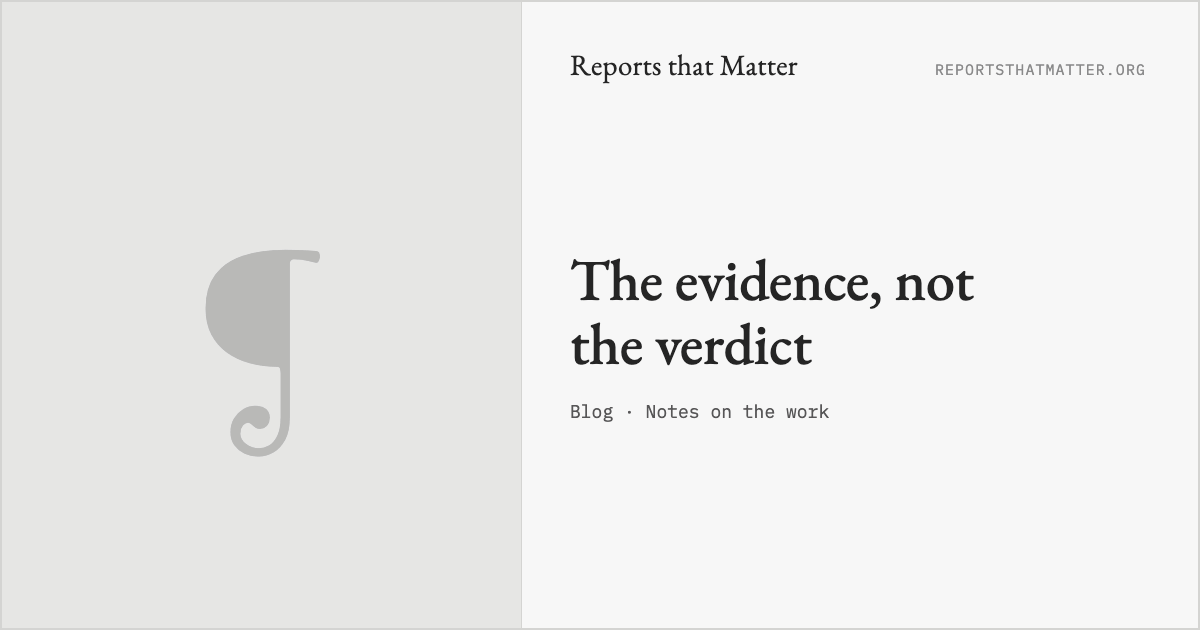
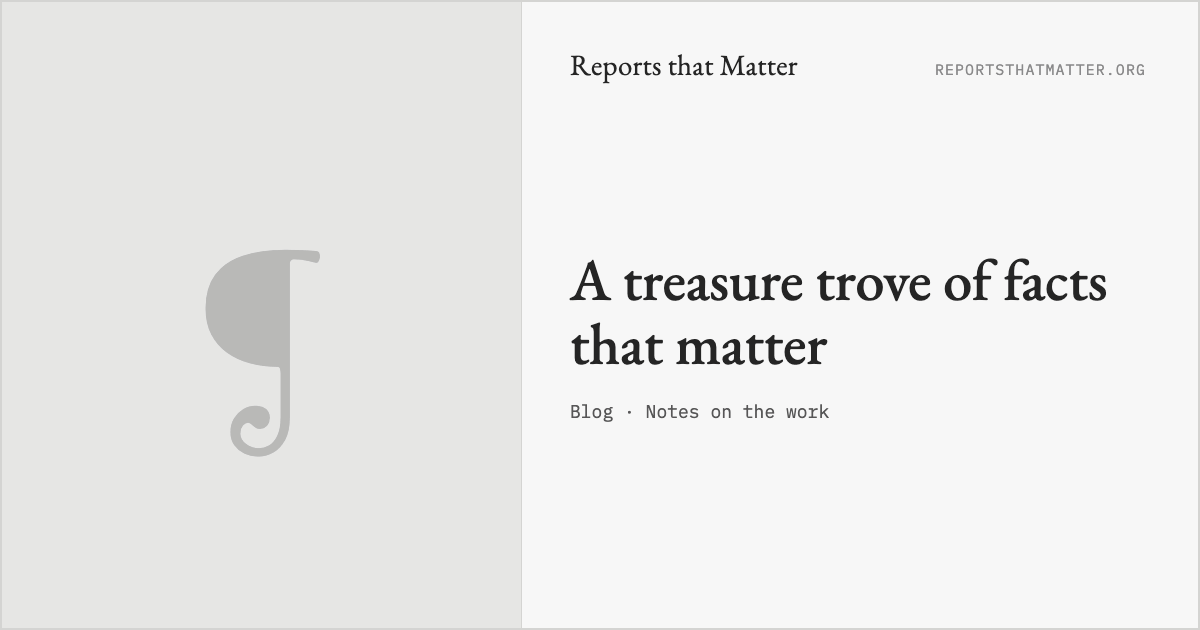
Manifesto retitled: A treasure trove of facts that matter: why I built Reports that Matter (Rufus, 21 Nov)
Claude-Session: https://claude.ai/code/session_01KA2bCtYGfbSuvqHx1NiNat

Changed region(s): [[0.4625, 0.3921, 0.925, 0.4825], [0.4933, 0.5127, 0.7092, 0.6032]]

diff --git a/src/templates/about.ts b/src/templates/about.ts
@@ -27,7 +27,7 @@ export function renderAbout(): string {
 
     <p>The report's own words, as published. Our introductions and highlights are labelled as ours.</p>
 
-    <p>Why this exists: <a href="/blog/why-reports-that-matter">The evidence, not the verdict</a>.</p>
+    <p>Why this exists: <a href="/blog/why-reports-that-matter">A treasure trove of facts that matter: why I built Reports that Matter</a>.</p>
   </div>
 
   <section class="section wrap">

diff --git a/content/posts/reports-that-matter-is-online.md b/content/posts/reports-that-matter-is-online.md
@@ -5,7 +5,7 @@ author: "Rufus Pollock"
 summary: "The official reports on 9/11, the financial crisis, the tobacco companies, Columbia, Chilcot, Grenfell, the Post Office and more, rebuilt from their PDFs as web pages, with every paragraph linkable and the official document one click away."
 status: draft
 review:
-  - "The announce post for the social launch of Tue 24 Nov 2026 (marketing one-pager of 24 Nov). It sits beside the essay 'The evidence, not the verdict' (why-reports-that-matter.md), which is the voice and the story; this is the plain version. No quote from Rufus, by his choice; his bio is one clause in the FAQ."
+  - "The announce post for the social launch of Tue 24 Nov 2026 (marketing one-pager of 24 Nov). It sits beside the essay 'A treasure trove of facts that matter: why I built Reports that Matter' (why-reports-that-matter.md), which is the voice and the story; this is the plain version. No quote from Rufus, by his choice; his bio is one clause in the FAQ."
   - "Tension with brand-voice.md: the site has been live since 27 Oct 2026 and the org Bluesky has posted daily since 24 Oct, so the post never says 'opens today' or 'launch'. 'Is online' is the headline verb. If a date is wanted, the honest one is that this is the first announcement, not the first day online."
   - "The three passages and their pages are the essay's (Philip Morris p. 1537, Columbia p. 157, Senate PSI p. 297), verified against the site's text on 21 Nov; '?p=' ids checked by marketing/scripts/check-drafts.py. The why-it-matters lines are ours, cut shorter than the essay's after a critique (21 Nov) found them verdict-adjacent in the plain register. The same critique replaced 9/11 p. 21 (NEADS unexplained; reads cold between a tobacco memo and a bankers' joke) with Columbia p. 157. Columbia is an affected-community report: no toll, no crew named; the context is the report's name, year and the loss of the vehicle, as in the essay."
   - "Counts: 24 reports and 64,618 paragraphs are from /reports and /data on 21 Nov 2026. If a report ships before publication, update both (check-drafts.py fails a stale report count)."
@@ -14,7 +14,7 @@ review:
 
 Public inquiries hold the most detailed record we have of what actually happened, and almost nobody reads past the summary. Reports that Matter puts 24 of the big ones online as web pages you can read, search and link to, in the report's own words: the 9/11 Commission, the Senate's financial-crisis report, *United States v. Philip Morris*, Columbia, Chilcot, Leveson, Grenfell, the Post Office Horizon Inquiry and the Covid Inquiry among them, from the UK and the US, 1986 to 2026. Every paragraph has its own link and its page number, and the official PDF is one click from every page.
 
-What these reports hold is the evidence: the companies' own memos, the emails with their time stamps, the morning rebuilt to the minute, gathered by people with the power to compel it. A report gets one news day, built from the executive summary, and then the evidence goes into a PDF on a website that often closes when the inquiry does. Reports that Matter puts it back where it can be read. The site is at [reportsthatmatter.org](https://reportsthatmatter.org); the essay on why it exists is [The evidence, not the verdict](/blog/why-reports-that-matter).
+What these reports hold is the evidence: the companies' own memos, the emails with their time stamps, the morning rebuilt to the minute, gathered by people with the power to compel it. A report gets one news day, built from the executive summary, and then the evidence goes into a PDF on a website that often closes when the inquiry does. Reports that Matter puts it back where it can be read. The site is at [reportsthatmatter.org](https://reportsthatmatter.org); the essay on why it exists is [A treasure trove of facts that matter: why I built Reports that Matter](/blog/why-reports-that-matter).
 
 ![The Reports that Matter homepage: "Reports that shaped history are still trapped in PDFs", with buttons to read the reports and to find out what the site is.](/assets/blog/reports-that-matter-is-online/homepage.webp)
 

diff --git a/docs/CHANGELOG.md b/docs/CHANGELOG.md
@@ -7,7 +7,7 @@ Newest first. Keep entries short and concrete — a number beats an adjective.
 
 ---
 
-## 2026-11-21 — New essay: "The evidence, not the verdict"
+## 2026-11-21 — New essay: "A treasure trove of facts that matter: why I built Reports that Matter"
 
 Why Reports that Matter exists, in the words of the inquiries themselves: the Philip Morris memos, the 9/11 air-defence log, the Standard & Poor's emails. Read it at [/blog/why-reports-that-matter](/blog/why-reports-that-matter); the [About](/about) page now links to it. The Grenfell Tower Inquiry's summary line also now says all seven volumes are here, not Volume 1.
 

diff --git a/content/posts/why-reports-that-matter.md b/content/posts/why-reports-that-matter.md
@@ -1,5 +1,5 @@
 ---
-title: "The evidence, not the verdict"
+title: "A treasure trove of facts that matter: why I built Reports that Matter"
 date: "2026-11-21"
 author: "Rufus Pollock"
 summary: "Public inquiries hold the most detailed record we have of what actually happened: the memo, the email, the minute. Almost none of it is read. Why I have spent a decade, on and off, putting these reports back online, and what is there now."
